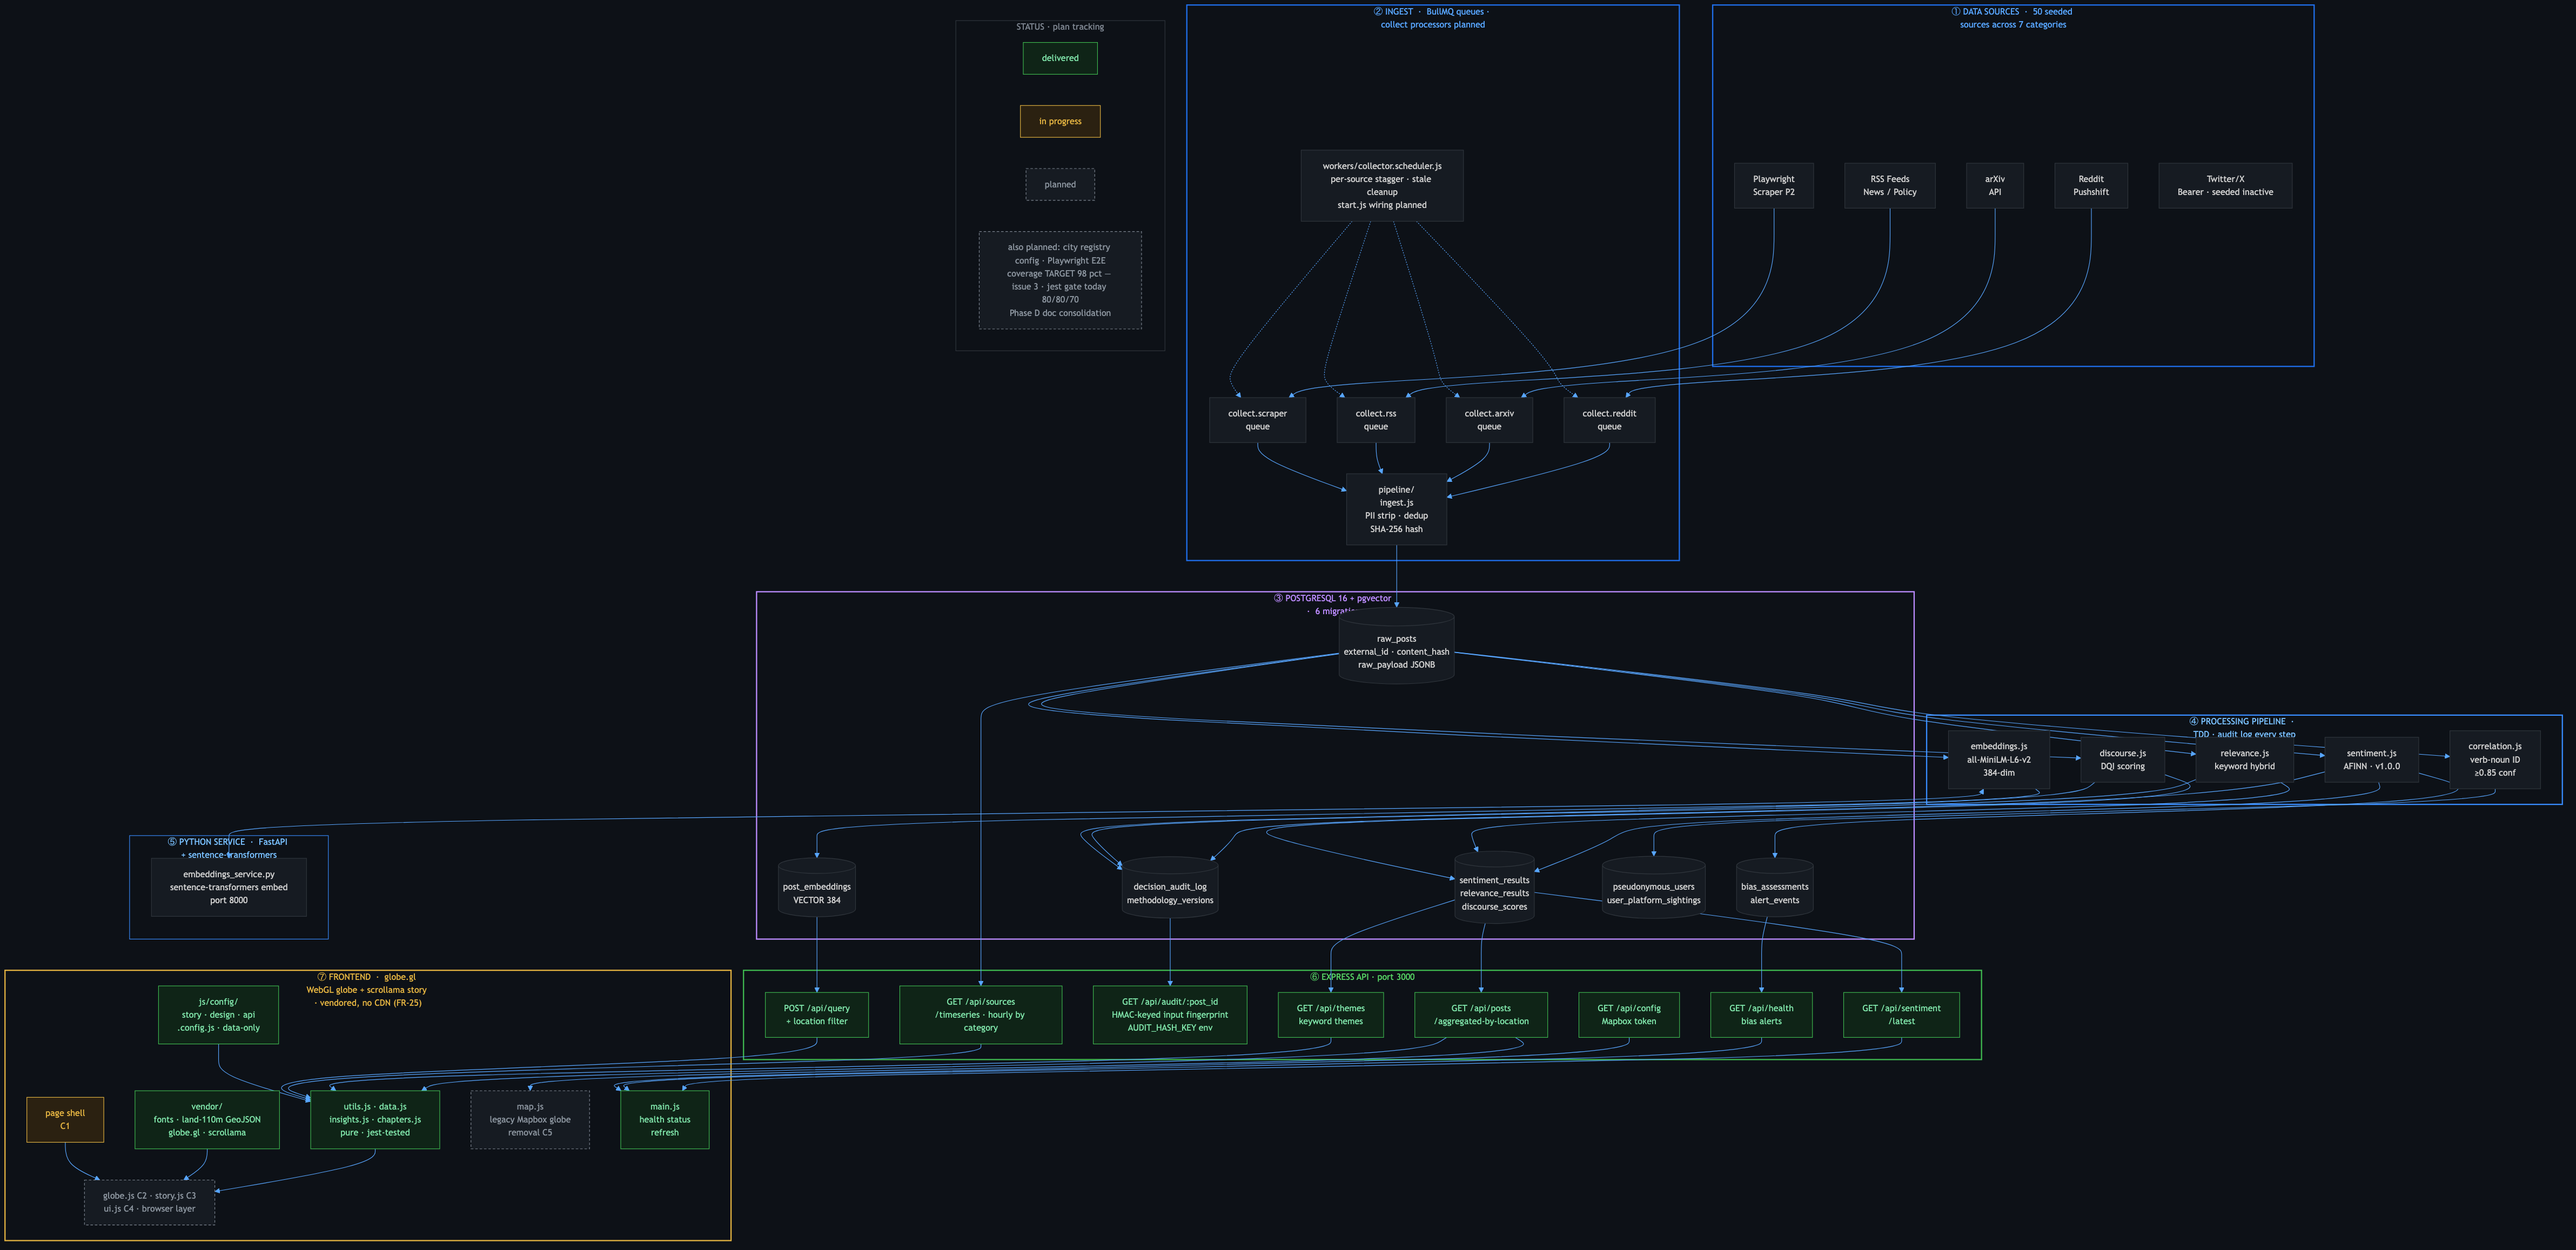
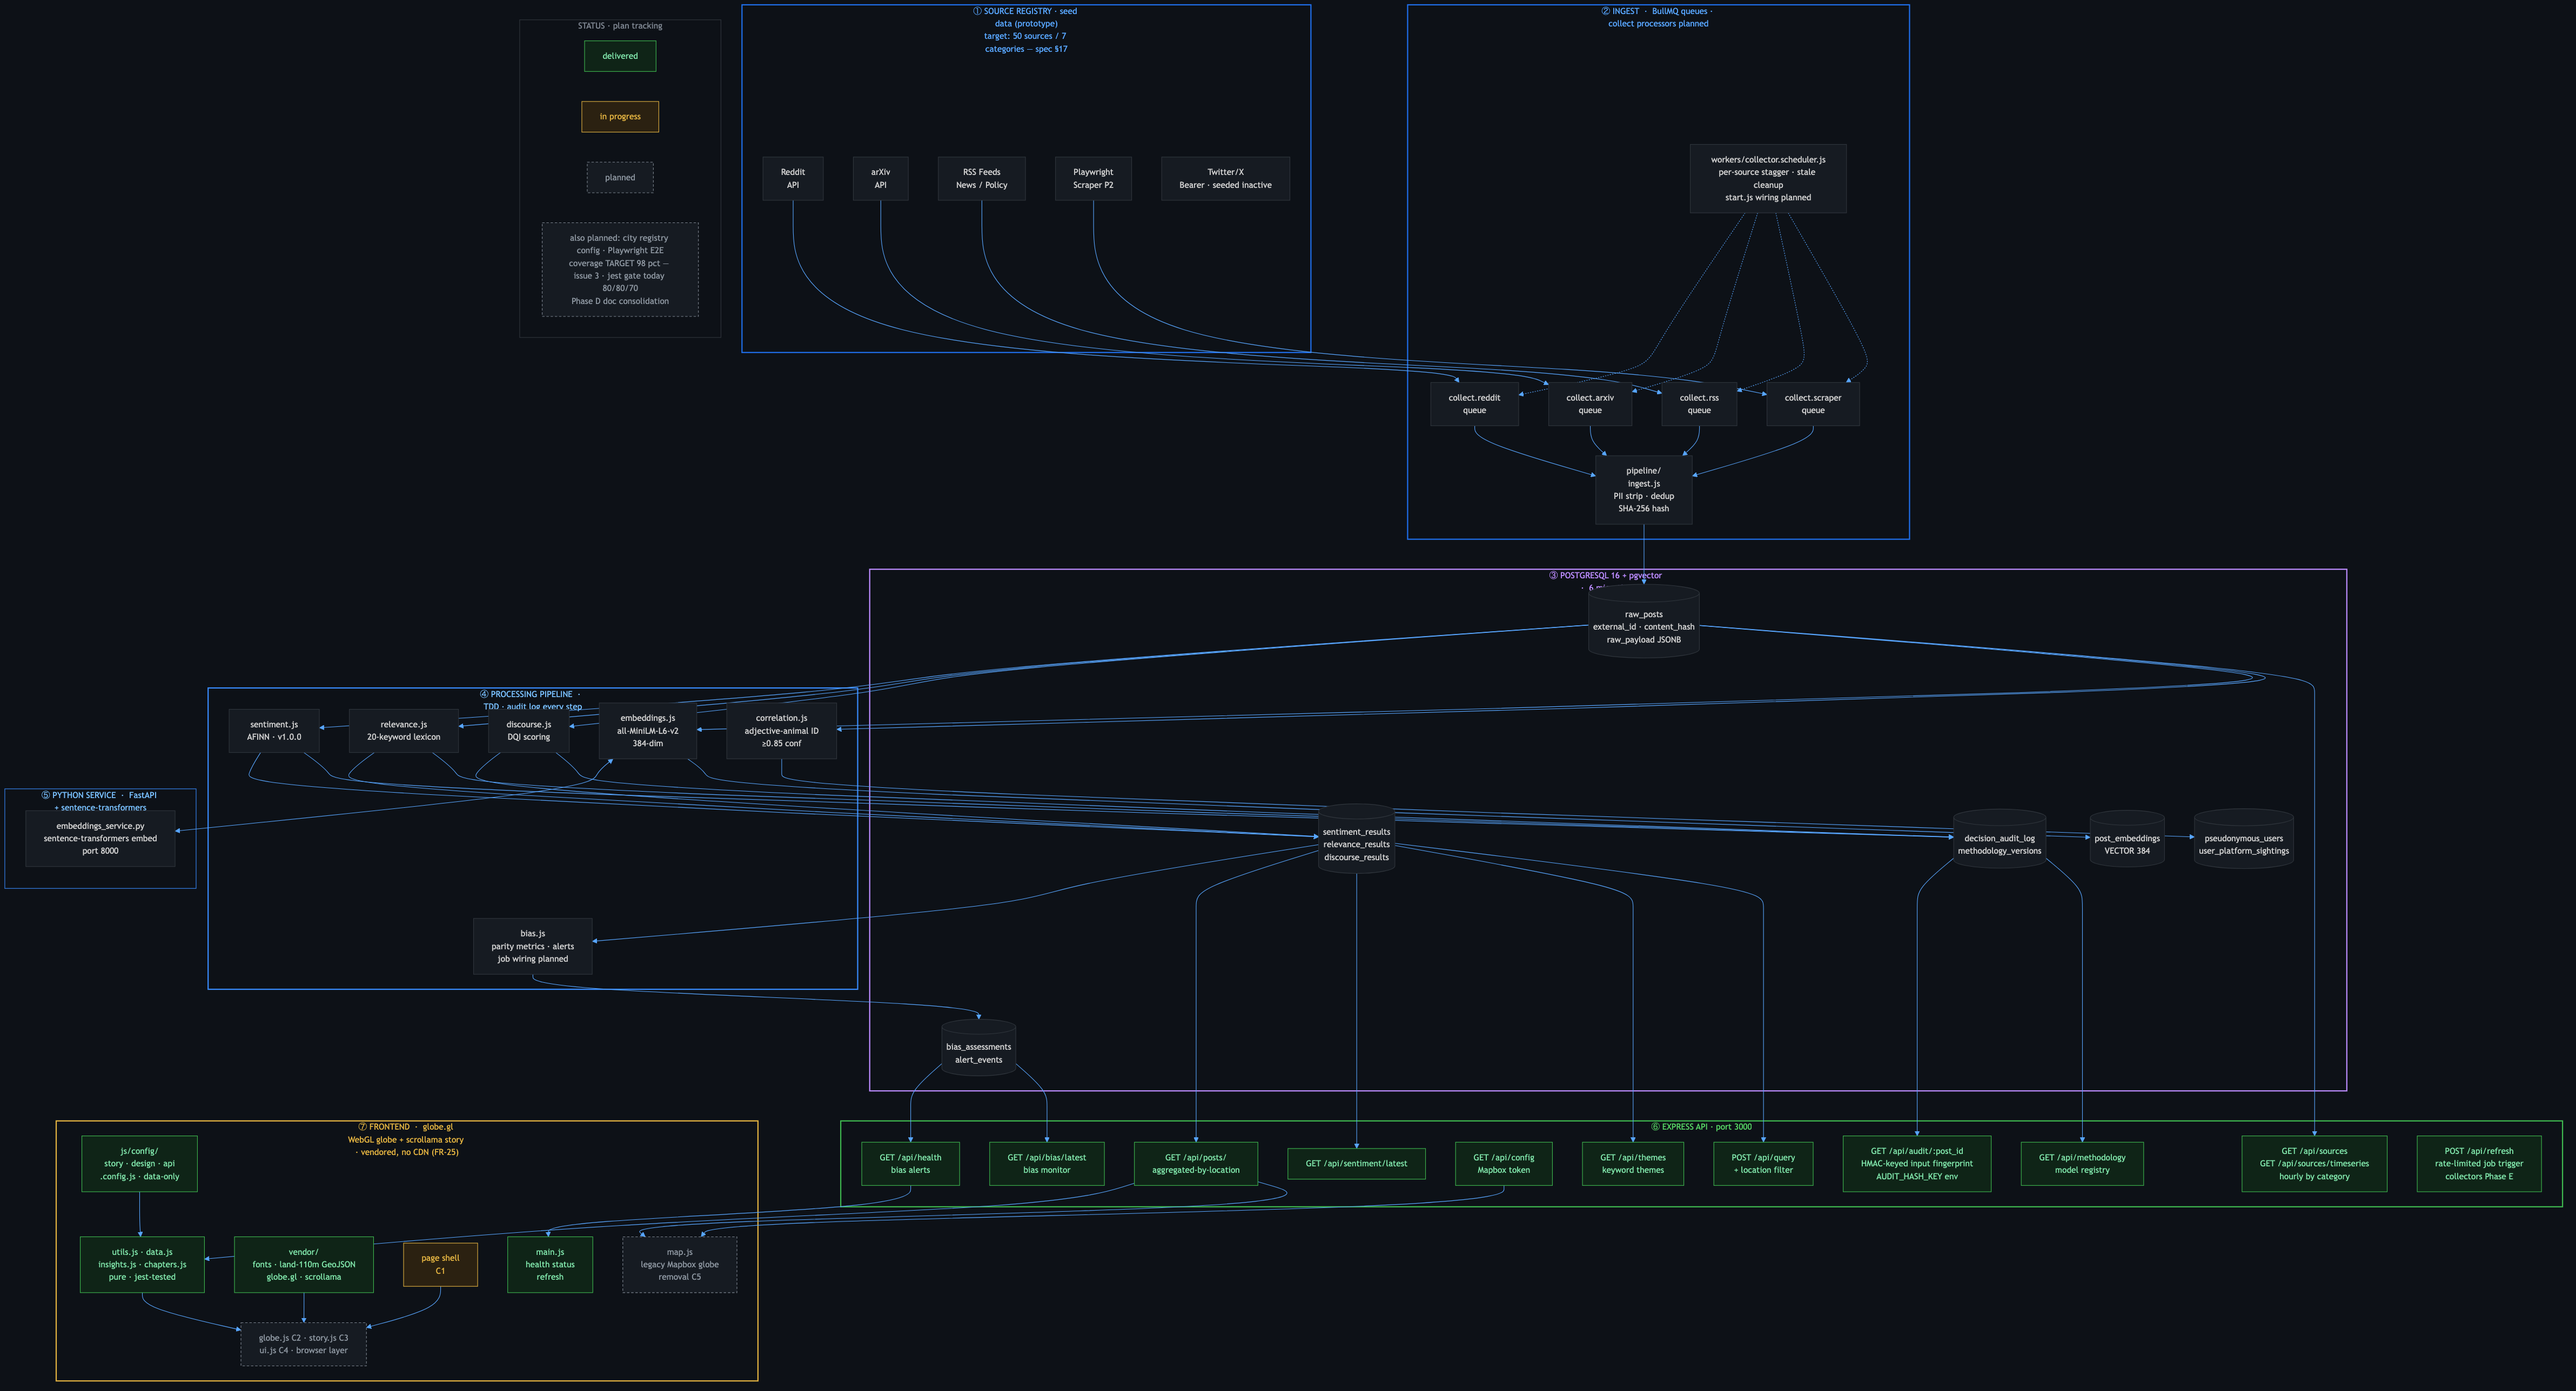
docs(diagrams): audit corrections — 17 findings fixed (R1-R22)
Applies independent auditor findings to the architecture diagram set
and PRD (role separation: auditor findings applied by fixer; verifier
pass follows).

Diagram (.mmd + mirrored html mermaid block + regenerated PNG):
- R1: discourse_scores -> discourse_results (DB2 node + table row)
- R2: Reddit source label Pushshift -> API
- R3: correlation.js verb-noun -> adjective-animal ID
- R4: relevance.js keyword hybrid -> 20-keyword lexicon
- R5: add P6 bias.js node; drop P1->DB5; add DB2->P6->DB5
- R6: DB4->A8 corrected to DB2->A8 (semantic search is Phase 3)
- R7: FM fed by A1 only
- R8: F2 fed by A4 only
- R9: F1 fed by A1 & A5
- R10: add A9 /api/bias/latest, A10 /api/methodology, A11 /api/refresh
  nodes + table rows; DB5->A4&A9; DB3->A3&A10
- R15: A1/A2/A7 label wraps de-ambiguated
- R22: SOURCES subgraph reframed as seed-data registry (prototype),
  target 50 sources / 7 categories per spec §17

HTML table:
- R11: AFINN via 'sentiment' npm ^5.0.2
- R12: 20-keyword lexicon scorer, matched/20
- R13: HNSW cosine index (m=16, ef_construction=400)
- R14: adjective-animal IDs (e.g. balanced-impala)
- R16: full /api prefix on both sources endpoints
- R17: pure-modules cell lists real files
- R18: main.js description corrected
- R19: "the 50 sources" -> "active sources"

PRD:
- R20: "P1—" -> "P1 —" heading spacing
- R21: primary experience for P1 and P2 (not P4)

diff --git a/docs/diagrams/architecture.html b/docs/diagrams/architecture.html
@@ -132,9 +132,9 @@
 %% amber = in progress, dashed grey = planned.
 flowchart TD
 
-  subgraph SOURCES["① DATA SOURCES  ·  50 seeded sources across 7 categories"]
+  subgraph SOURCES["① SOURCE REGISTRY · seed data (prototype)<br/>target: 50 sources / 7 categories — spec §17"]
     direction LR
-    S1["Reddit<br/>Pushshift"]
+    S1["Reddit<br/>API"]
     S2["arXiv<br/>API"]
     S3["RSS Feeds<br/>News / Policy"]
     S4["Playwright<br/>Scraper  P2"]
@@ -154,7 +154,7 @@ flowchart TD
   subgraph DB["③ POSTGRESQL 16 + pgvector  ·  6 migrations"]
     direction TB
     DB1[("raw_posts<br/>external_id · content_hash<br/>raw_payload JSONB")]
-    DB2[("sentiment_results<br/>relevance_results<br/>discourse_scores")]
+    DB2[("sentiment_results<br/>relevance_results<br/>discourse_results")]
     DB3[("decision_audit_log<br/>methodology_versions")]
     DB4[("post_embeddings<br/>VECTOR 384")]
     DB5[("bias_assessments<br/>alert_events")]
@@ -164,10 +164,11 @@ flowchart TD
   subgraph PIPELINE["④ PROCESSING PIPELINE  ·  TDD · audit log every step"]
     direction LR
     P1["sentiment.js<br/>AFINN · v1.0.0"]
-    P2["relevance.js<br/>keyword hybrid"]
+    P2["relevance.js<br/>20-keyword lexicon"]
     P3["discourse.js<br/>DQI scoring"]
     P4["embeddings.js<br/>all-MiniLM-L6-v2<br/>384-dim"]
-    P5["correlation.js<br/>verb-noun ID<br/>≥0.85 conf"]
+    P5["correlation.js<br/>adjective-animal ID<br/>≥0.85 conf"]
+    P6["bias.js<br/>parity metrics · alerts<br/>job wiring planned"]
   end
 
   subgraph PYTHON["⑤ PYTHON SERVICE  ·  FastAPI + sentence-transformers"]
@@ -176,14 +177,17 @@ flowchart TD
 
   subgraph API["⑥ EXPRESS API  ·  port 3000"]
     direction LR
-    A1["GET /api/posts<br/>/aggregated-by-location"]:::done
-    A2["GET /api/sentiment<br/>/latest"]:::done
+    A1["GET /api/posts/<br/>aggregated-by-location"]:::done
+    A2["GET /api/sentiment/latest"]:::done
     A3["GET /api/audit/:post_id<br/>HMAC-keyed input fingerprint<br/>AUDIT_HASH_KEY env"]:::done
     A4["GET /api/health<br/>bias alerts"]:::done
     A5["GET /api/config<br/>Mapbox token"]:::done
     A6["GET /api/themes<br/>keyword themes"]:::done
-    A7["GET /api/sources<br/>/timeseries · hourly by category"]:::done
+    A7["GET /api/sources<br/>GET /api/sources/timeseries<br/>hourly by category"]:::done
     A8["POST /api/query<br/>+ location filter"]:::done
+    A9["GET /api/bias/latest<br/>bias monitor"]:::done
+    A10["GET /api/methodology<br/>model registry"]:::done
+    A11["POST /api/refresh<br/>rate-limited job trigger<br/>collectors Phase E"]:::done
   end
 
   subgraph FRONTEND["⑦ FRONTEND  ·  globe.gl WebGL globe + scrollama story · vendored, no CDN (FR-25)"]
@@ -220,19 +224,20 @@ flowchart TD
   P4 --> DB4
   DB1 --> P5
   P5 --> DB6
-  P1 --> DB5
+  DB2 --> P6
+  P6 --> DB5
   DB2 --> A1 & A2 & A6
   DB1 --> A7
-  DB4 --> A8
-  DB3 --> A3
-  DB5 --> A4
-  A1 & A6 & A7 & A8 --> FM
+  DB2 --> A8
+  DB3 --> A3 & A10
+  DB5 --> A4 & A9
+  A1 --> FM
   FC --> FM
   FM --> FB
   FV --> FB
   FSH --> FB
-  A1 --> F1
-  A2 & A4 & A5 --> F2
+  A1 & A5 --> F1
+  A4 --> F2
 
   classDef done fill:#0f2417,stroke:#3fb950,color:#7ee2a8
   classDef wip fill:#2b2111,stroke:#e3b341,color:#e3b341
@@ -272,7 +277,7 @@ flowchart TD
           <td>②</td>
           <td>workers/collector.scheduler.js</td>
           <td><span class="badge badge-blue">Ingest</span></td>
-          <td>Per-source BullMQ v5 job schedulers: staggered startDate spreads the 50 sources across the collect window (default 2 min); stale schedulers cleaned up. Wiring into workers/start.js is planned</td>
+          <td>Per-source BullMQ v5 job schedulers: staggered startDate spreads active sources across the collect window (default 2 min); stale schedulers cleaned up. Wiring into workers/start.js is planned</td>
         </tr>
         <tr class="cat-ingest">
           <td>②</td>
@@ -284,13 +289,13 @@ flowchart TD
           <td>④</td>
           <td>pipeline/sentiment.js</td>
           <td><span class="badge badge-blue">Pipeline</span></td>
-          <td>AFINN lexicon v5.0.2. Writes sentiment_results + decision_audit_log. Methodology version 1.0.0</td>
+          <td>AFINN lexicon via 'sentiment' npm ^5.0.2. Writes sentiment_results + decision_audit_log. Methodology version 1.0.0</td>
         </tr>
         <tr class="cat-pipeline">
           <td>④</td>
           <td>pipeline/relevance.js</td>
           <td><span class="badge badge-blue">Pipeline</span></td>
-          <td>15-keyword AI-domain hybrid scorer. Score = matched/total capped at 1.0</td>
+          <td>20-keyword AI-domain lexicon scorer. Score = matched/20, capped at 1.0</td>
         </tr>
         <tr class="cat-pipeline">
           <td>④</td>
@@ -308,7 +313,7 @@ flowchart TD
           <td>④</td>
           <td>pipeline/correlation.js</td>
           <td><span class="badge badge-blue">Pipeline</span></td>
-          <td>Cross-platform verb-noun pseudonymous IDs (e.g. running-tiger). Assigns ID only at ≥0.85 confidence</td>
+          <td>Cross-platform adjective-animal pseudonymous IDs (e.g. balanced-impala). Assigns ID only at ≥0.85 confidence</td>
         </tr>
         <tr class="cat-storage">
           <td>③</td>
@@ -332,7 +337,7 @@ flowchart TD
           <td>③</td>
           <td>post_embeddings</td>
           <td><span class="badge badge-purple">Storage</span></td>
-          <td>384-dim vectors. IVFFlat cosine index (lists=100) for ANN search. Powers semantic similarity queries</td>
+          <td>384-dim vectors. HNSW cosine index (m=16, ef_construction=400) for ANN search. Powers semantic similarity queries</td>
         </tr>
         <tr class="cat-storage">
           <td>③</td>
@@ -384,7 +389,7 @@ flowchart TD
         </tr>
         <tr class="cat-api">
           <td>⑥</td>
-          <td>GET /api/sources · /sources/timeseries</td>
+          <td>GET /api/sources · GET /api/sources/timeseries</td>
           <td><span class="badge badge-green">API</span></td>
           <td>Source registry listing, plus hourly zero-filled post counts by category (1–48 h window, default 12 h)</td>
         </tr>
@@ -394,6 +399,24 @@ flowchart TD
           <td><span class="badge badge-green">API</span></td>
           <td>Post search with platform, city-level location, and from/to date filters; limit capped at 100</td>
         </tr>
+        <tr class="cat-api">
+          <td>⑥</td>
+          <td>GET /api/bias/latest</td>
+          <td><span class="badge badge-green">API</span></td>
+          <td>Bias monitor: reads the latest completed bias job's assessments (parity metrics + violation flags) from bias_assessments (src/routes/bias.js)</td>
+        </tr>
+        <tr class="cat-api">
+          <td>⑥</td>
+          <td>GET /api/methodology</td>
+          <td><span class="badge badge-green">API</span></td>
+          <td>Model registry: active methodology versions per pipeline component from methodology_versions (src/routes/methodology.js)</td>
+        </tr>
+        <tr class="cat-api">
+          <td>⑥</td>
+          <td>POST /api/refresh</td>
+          <td><span class="badge badge-green">API</span></td>
+          <td>Rate-limited job trigger (1 request/min/IP); collectors land in Phase E (src/routes/refresh.js)</td>
+        </tr>
         <tr class="cat-frontend">
           <td>⑦</td>
           <td>public/js/config/</td>
@@ -402,7 +425,7 @@ flowchart TD
         </tr>
         <tr class="cat-frontend">
           <td>⑦</td>
-          <td>public/js/ pure modules</td>
+          <td>public/js/utils.js · data.js · insights.js · chapters.js</td>
           <td><span class="badge badge-yellow">Frontend</span></td>
           <td>utils.js, data.js, insights.js, chapters.js — pure DOM-free modules, jest-tested (delivered)</td>
         </tr>
@@ -428,7 +451,7 @@ flowchart TD
           <td>⑦</td>
           <td>public/js/main.js</td>
           <td><span class="badge badge-yellow">Frontend</span></td>
-          <td>Health status indicator and manual refresh button wired to /api/health</td>
+          <td>Health status indicator wired to /api/health; manual refresh button reloads the page</td>
         </tr>
       </tbody>
     </table>

diff --git a/docs/requirements/PRD-The Pulse of AI.md b/docs/requirements/PRD-The Pulse of AI.md
@@ -26,7 +26,7 @@ Every score shown anywhere in the product is traceable to the model, version, pa
 
 Personas are taken from the MVP requirements as restated in spec §11.
 
-### P1— The General Public (secondary)
+### P1 — The General Public (secondary)
 - **Goal:** understand how the world feels about AI without any technical background.
 - **Flow:** the scroll story does the interpretive work — each chapter states one insight in plain language over an animated globe; free-explore afterwards invites self-directed discovery.
 
@@ -69,7 +69,7 @@ Personas are taken from the MVP requirements as restated in spec §11.
 
 ### 4.3 Storytelling Frontend (globe.gl — approved design, 2026-07-05)
 
-The frontend is the primary experience for P1 and P4. Source: `docs/plans/2026-07-05-globe-storytelling-design.md`; it is also the execution vehicle for spec §11's scroll-driven narrative.
+The frontend is the primary experience for P1 and P2. Source: `docs/plans/2026-07-05-globe-storytelling-design.md`; it is also the execution vehicle for spec §11's scroll-driven narrative.
 
 | ID | Requirement |
 |---|---|
